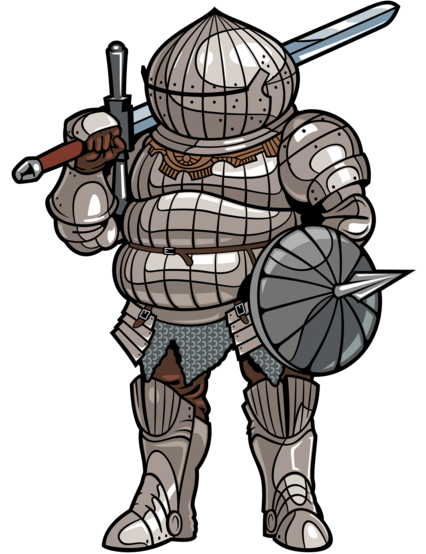
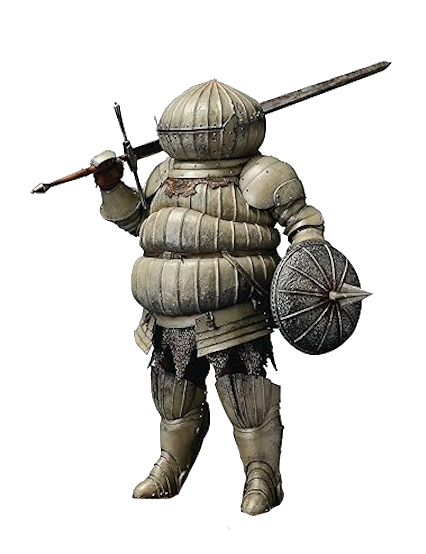
En principio, último commit del programa

diff --git a/src/window/JFrameSeleccionDeCaballeros.java b/src/window/JFrameSeleccionDeCaballeros.java
@@ -24,28 +24,10 @@ public class JFrameSeleccionDeCaballeros extends JFrame {
 	private static final long serialVersionUID = 1L;
 	private JPanel contentPane;
 	private JPanel botonPane;
+	private JLabel personaje = new JLabel();
+	private int idBoton=0;
 	private ArrayList<Caballero> caballerosPelea = new ArrayList<Caballero>();
 
-	/**
-	 * Launch the application.
-	 */
-//	public static void main(String[] args) {
-//		EventQueue.invokeLater(new Runnable() {
-//			public void run() {
-//				try {
-//					JFrameSeleccionDeCaballeros frame = new JFrameSeleccionDeCaballeros();
-//					frame.setVisible(true);
-//				} catch (Exception e) {
-//					e.printStackTrace();
-//				}
-//			}
-//		});
-//	}
-
-	/**
-	 * Create the frame.
-	 */
-	
 	public JFrameSeleccionDeCaballeros() {
 		initialize();
 	}
@@ -59,9 +41,8 @@ public class JFrameSeleccionDeCaballeros extends JFrame {
 		setContentPane(contentPane);
 		contentPane.setLayout(new FlowLayout(FlowLayout.CENTER, 5, 5));
 		
-		JLabel personaje1 = new JLabel();
-		personaje1.setIcon(new ImageIcon("C:\\\\Users\\\\plaiaundi\\\\eclipse-workspace\\\\RetoCaballeros\\\\recursos\\\\siegmeyer.png")); // Cambia la ruta de la imagen
-		contentPane.add(personaje1);
+		personaje.setIcon(new ImageIcon("C:\\Users\\plaiaundi\\eclipse-workspace\\RetoCaballeros\\recursos\\siegmeyer.png")); // Cambia la ruta de la imagen
+		contentPane.add(personaje);
 	}
 
 	public void rellenarConBotones() {
@@ -82,16 +63,49 @@ public class JFrameSeleccionDeCaballeros extends JFrame {
 				label.setHorizontalAlignment(SwingConstants.LEFT); // Configuración para que el texto se alinee a la izquierda
 				btnNewButton.addActionListener(new ActionListener() {
 		        public void actionPerformed(ActionEvent e) {
-			        // Aquí puedes definir lo que quieras que haga el botón al ser clicado
-			        if (caballerosPelea.size()<2) {
+		        	// Cambia la imagen por imagenes predefinidas
+			        if (caballero.getNombre().toLowerCase().contains("havel")) {
+						personaje.setIcon(new ImageIcon("C:\\Users\\plaiaundi\\eclipse-workspace\\RetoCaballeros\\recursos\\havel.png"));
+			        }else if (caballero.getNombre().toLowerCase().contains("parches")) {
+						personaje.setIcon(new ImageIcon("C:\\Users\\plaiaundi\\eclipse-workspace\\RetoCaballeros\\recursos\\parches.png"));
+					}
+					else if (caballero.getNombre().toLowerCase().contains("ricard")) {
+						personaje.setIcon(new ImageIcon("C:\\Users\\plaiaundi\\eclipse-workspace\\RetoCaballeros\\recursos\\ricard.png"));
+					}
+					else if (caballero.getNombre().toLowerCase().contains("yuria")) {
+						personaje.setIcon(new ImageIcon("C:\\Users\\plaiaundi\\eclipse-workspace\\RetoCaballeros\\recursos\\yuria.png"));
+					}
+					else if (caballero.getNombre().toLowerCase().contains("solaire")) {
+						personaje.setIcon(new ImageIcon("C:\\Users\\plaiaundi\\eclipse-workspace\\RetoCaballeros\\recursos\\solaire.png"));
+					}
+					else if (caballero.getNombre().toLowerCase().contains("siegmeyer")) {
+						personaje.setIcon(new ImageIcon("C:\\Users\\plaiaundi\\eclipse-workspace\\RetoCaballeros\\recursos\\siegmeyer.png"));
+					}
+					else if (caballero.getNombre().toLowerCase().contains("radahn")) {
+						personaje.setIcon(new ImageIcon("C:\\Users\\plaiaundi\\eclipse-workspace\\RetoCaballeros\\recursos\\radahn.png"));
+					}
+					else if (caballero.getNombre().toLowerCase().contains("malenia")) {
+						personaje.setIcon(new ImageIcon("C:\\Users\\plaiaundi\\eclipse-workspace\\RetoCaballeros\\recursos\\malenia.png"));
+					}
+					else {
+						personaje.setIcon(new ImageIcon("C:\\Users\\plaiaundi\\eclipse-workspace\\RetoCaballeros\\recursos\\predeterminado.png"));
+					}
+		        	
+		        	
+			        //Comprueba cuantos han sido seleccionados
+			        if (caballerosPelea.size()<2 && (idBoton!=caballero.getId())) {
 			        	caballerosPelea.add(caballero);
-			        	JOptionPane.showMessageDialog(JFrameSeleccionDeCaballeros.this, "Has elegido a " + caballero.getNombre());
+			        	JOptionPane.showMessageDialog(JFrameSeleccionDeCaballeros.this, "Has elegido a " + caballero.getNombre(),"", JOptionPane.INFORMATION_MESSAGE);
+			        }else if (idBoton==caballero.getId()) {
+			        	JOptionPane.showMessageDialog(JFrameSeleccionDeCaballeros.this, "Ya has elegido este personaje anteriormente", "Error", JOptionPane.ERROR_MESSAGE);
 			        }
 			        else {
-			        	JOptionPane.showMessageDialog(JFrameSeleccionDeCaballeros.this, "Ya has elegido dos personajes");
+			        	JOptionPane.showMessageDialog(JFrameSeleccionDeCaballeros.this, "Ya has elegido dos personajes", "Error", JOptionPane.ERROR_MESSAGE);
 			        }
+			        idBoton=caballero.getId();
 		        }
 		        });
+				
 				botonPane.add(btnNewButton);
 				botonPane.add(label);
 			} 
@@ -100,7 +114,7 @@ public class JFrameSeleccionDeCaballeros extends JFrame {
 		        public void actionPerformed(ActionEvent e) {
 			        // Aquí puedes definir lo que quieras que haga el botón al ser clicado
 			        if (caballerosPelea.size()<2) {
-			        	JOptionPane.showMessageDialog(JFrameSeleccionDeCaballeros.this, "Te falta por seleccionar algún personaje");
+			        	JOptionPane.showMessageDialog(JFrameSeleccionDeCaballeros.this, "Te falta por seleccionar algún personaje", "Error", JOptionPane.ERROR_MESSAGE);
 			        }
 			        else {
 			        	pelear(caballerosPelea);
@@ -108,10 +122,24 @@ public class JFrameSeleccionDeCaballeros extends JFrame {
 			        }
 		        }
 		        });
-			
-		contentPane.add(botonPane);
-		contentPane.add(btnLucha);
+			JButton btnClear = new JButton("LIMPIAR");
+			btnClear.addActionListener(new ActionListener() {
+		        public void actionPerformed(ActionEvent e) {
+			        // Aquí puedes definir lo que quieras que haga el botón al ser clicado
+			        if (caballerosPelea.size()>0) {
+			        	JOptionPane.showMessageDialog(JFrameSeleccionDeCaballeros.this, "Se han desmarcado los caballeros", "", JOptionPane.INFORMATION_MESSAGE);
+			        	caballerosPelea.clear();
+			        }
+			        else {
+			        	JOptionPane.showMessageDialog(JFrameSeleccionDeCaballeros.this, "No has seleccionado ningún caballero", "Error", JOptionPane.ERROR_MESSAGE);
+			        }
+		        }
+		        });
 		
+		contentPane.add(botonPane);
+		contentPane.add(btnClear);
+		contentPane.add(btnLucha);
+
 	}
 
 	protected void pelear(ArrayList<Caballero> caballerosPelea) {
@@ -120,7 +148,8 @@ public class JFrameSeleccionDeCaballeros extends JFrame {
 		//Se llaman ganador y perdedor pero se decide en comienzo lucha quien será
 		lucha.comienzoLucha(); 
 		gestorBBDD.insertarLucha(lucha);
-		JOptionPane.showMessageDialog(JFrameSeleccionDeCaballeros.this, "El ganador es... ¡¡¡" +lucha.getGanador().getNombre()+"!!!");
+		JOptionPane.showMessageDialog(JFrameSeleccionDeCaballeros.this, "El ganador es... ¡¡¡" +lucha.getGanador().getNombre()+"!!!\n"
+				+ "Esta lucha ha sido introducida en la base de datos","GANADOR", JOptionPane.INFORMATION_MESSAGE);
 	}
 
 }

diff --git a/src/window/PantallaPrincipal.java b/src/window/PantallaPrincipal.java
@@ -4,6 +4,7 @@ import java.awt.EventQueue;
 import javax.swing.ImageIcon;
 import javax.swing.JFrame;
 import javax.swing.JLabel;
+
 import javax.swing.JButton;
 import java.awt.event.ActionListener;
 import java.awt.event.ActionEvent;
@@ -49,9 +50,6 @@ public class PantallaPrincipal {
 	    JButton btnNewButton = new JButton("LUCHAR");
 	    btnNewButton.addActionListener(new ActionListener() {
 	    	public void actionPerformed(ActionEvent e) {
-//	    		JOptionPane.showMessageDialog(frmLuchaMedieval, "Boton clikado");
-
-	    		//abrir JFrameSeleccionDeCaballeros()
 	    		JFrameSeleccionDeCaballeros selectorCaballeros = new JFrameSeleccionDeCaballeros();
 
 	    		selectorCaballeros.rellenarConBotones();
@@ -68,7 +66,6 @@ public class PantallaPrincipal {
 	    	    
 	    // Agregar el JLabel al JFrame
 	    frmLuchaMedieval.getContentPane().add(backgroundLabel);
-
-	    
+  
 	}
 }

diff --git a/src/modelo/Menu.java b/src/modelo/Menu.java
@@ -10,6 +10,7 @@ public class Menu {
 	public final static int LUCHAS = 4;
 	public final static int CABALLOS = 5;
 	public final static int ESCUDEROS = 6;
+	public static final int JUEGO = 7;
 	
 	public final static int VER_CABALLEROS = 1;
 	public final static int INSERTAR_CABALLEROS = 2;
@@ -40,6 +41,8 @@ public class Menu {
 	public final static int INSERTAR_ESCUDEROS = 2;
 	public final static int ELIMINAR_ESCUDEROS = 3;
 	public final static int MODIFICAR_ESCUDEROS = 4;
+
+
 	
 	
 	public static void menuPrincipal() {
@@ -52,6 +55,7 @@ public class Menu {
 		System.out.println(LUCHAS + "- Entrar al menu de lucha");
 		System.out.println(CABALLOS + "- Entrar al menu de caballos");
 		System.out.println(ESCUDEROS + "- Entrar al menu de escuderos");
+		System.out.println(JUEGO + "- Entrar a la interfaz de peleas");
 	}
 	
 	public static void menuCaballeros() {

diff --git a/src/controlador/ControladorApp.java b/src/controlador/ControladorApp.java
@@ -3,6 +3,7 @@ package controlador;
 import java.util.Scanner;
 
 import modelo.Menu;
+import window.PantallaPrincipal;
 
 public class ControladorApp {
 	
@@ -52,6 +53,11 @@ public class ControladorApp {
 			case Menu.ESCUDEROS:
 				
 				ControladorEscuderos.run();
+				break;
+				
+			case Menu.JUEGO:
+				
+				PantallaPrincipal.main(null);
 				break;
 
 			default:
